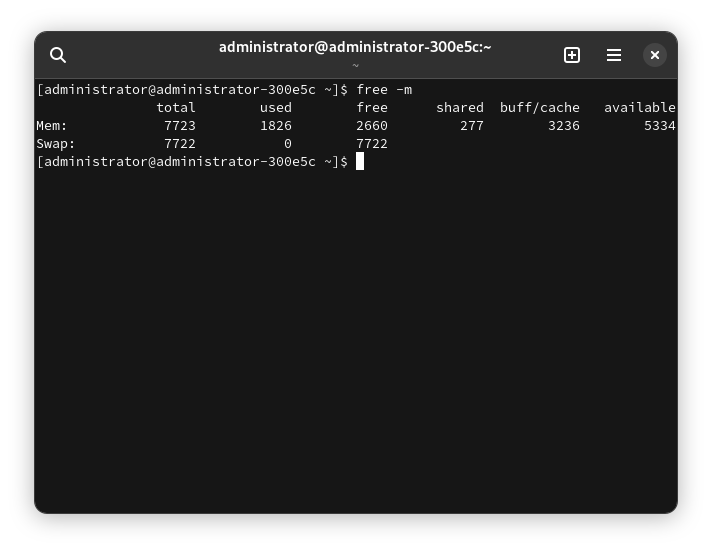
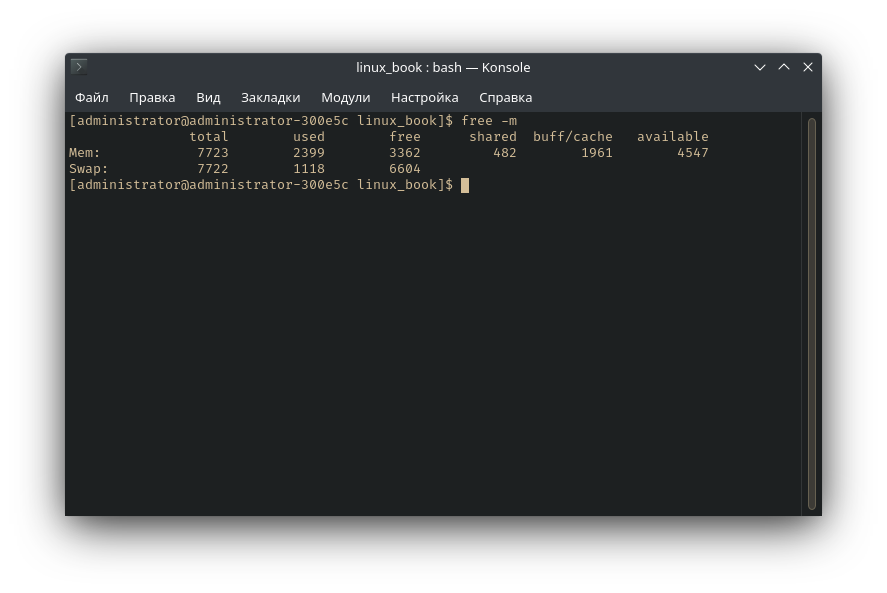
Мелкие правки, добавление новых статей

Changed region(s): [[0.0309, 0.0309, 0.9579, 0.9564]]

diff --git a/docs/ram.md b/docs/ram.md
@@ -1,0 +1,310 @@
+# Работа с RAM
+
+В данной части пойдёт речь о двух вопросах. Первый: "как ядро Linux работает с
+оперативной памятью?", второй: "о zram и подкачке".
+
+Одной из наиболее важных и базовых подсистем в любой ОС является подсистема
+работы с оперативной памятью (Memory Management Unit). Конструкция данной
+подсистемы является довольно сложной, да и само ядро Linux активно развивается и
+совершенствуется.
+
+Поговорим про виртуальную память. Если с физической памятью всё понятно (это,
+собственно, сама плашка оперативной памяти), то вот с виртуальной памятью могут
+возникать всяческие непонятки.
+
+В отличие от физической памяти, которую можно расширить только на аппаратном
+уровне, виртуальная память является совокупностью физической памяти и подкачки
+(swap).
+
+swap является механизмом управления памятью, при котором отдельные фрагменты
+памяти (как правило неактивные или малоактивные) могут быть перемещены из ОЗУ на
+диск (либо же, если использовать zram, то в виртуальный раздел оперативной
+памяти, но об этом позже). Поэтому можно утверждать, что размер виртуальной
+памяти можно неограниченно расширять с помощью дисков и прочих устройств
+хранения информации, но стоит учесть то, что доступ к фрагментам памяти,
+расположенных на диске, будет значительно медленнее, чем непосредственно к RAM.
+Хотите скорости - используйте zram. Так будет немного быстрее, чем использовать
+подкачку на HDD или SSD.
+
+Базовой единицей в организации памяти для ядра Linux является *страница памяти*.
+Страница имеет размер от 4 Кб, которому соответствует объём физического
+пространства в оперативной или виртуальной (область подкачки на диске или другом
+устройстве хранения) памяти. Также существуют страницы и другого размера: т.н.
+*Huge Pages* размером 2 Мб и страницы размером 1 Гб, но о них здесь не будет,
+так как в этом руководстве содержатся лишь базовые сведения.
+
+Процесс работает не с физической памятью напрямую, а с виртуальной. Виртуальная
+память - это адресное пространство процесса. Такая абстракция позволяет
+упростить разработку программного обеспечения, не думая о том, что можно
+обратиться не к тем адресам памяти или адресу другого процесса. Ну и это
+позволяет превышать размер основной оперативной памяти за счёт описанных выше
+механизмов.
+
+При запуске процессов, они запрашивают у системы (т. е. у ядра посредством
+соответствующих системных вызовов) память для своей работы, а в ответ на это
+ядро выделяет для них достаточное количество страниц памяти. Виртуальная память,
+или как её ещё называют, «резервное ЗУ» (резервное запоминающее устройство) для
+страниц памяти, которые содержат, к примеру, исходный текст исполняемого
+приложения, представляют собой обычные исполняемые файлы на диске. Ровно как и
+для других файлов данных, резервным ЗУ являются сами файлы. Информация о том как
+взаимосвязаны страницы физической и виртуальной памяти хранится в
+соответствующих таблицах страниц памяти.
+
+Для работы с памятью в Linux характерно такое явление, как "страничный обмен"
+(*paging*). Оно заключается в том, что ядро вызывает процессам столько памяти,
+сколько им необходимо. В том смысле, чтобы её (памяти) всегда хватало. Это
+достигается путём расширения физической памяти за счёт виртуальной, т.е.
+подкачки. Поскольку выполнение процессов должно происходить в реальной
+физической памяти, ядро постоянно перемещает страницы памяти процессов между
+физической и виртуальной памятью. Забегая вперёд, следует отметить, что в
+виртуальной памяти хранятся *"неактивные"* страницы, которые не задействованы
+процессом в данный момент, но необходимые ему для полноценной работы
+впоследствии.
+
+Резюмирое всё вышеописанное, ядро старается управлять памятью таким
+образом, чтобы недавно используемые процессом страницы находились в физической
+памяти, а неактивные или редко используемые страницы перемещались в подкачку.
+Такой механизм распределения памяти называется *LRU* (*Least Recently Used*).
+
+Вторым важнейшим аспектом в работе памяти является использование кеш-буфера
+страниц. Это вытекает из работы алгоритма LRU, который довольно сложен в своей
+реализации. Поскольку следить за всеми обращениями к страницам - это, в
+некоторых случаях, довольно ощутимые потери в производительности системы,
+использование страничного кеш-буфера куда проще в своей реализации при тех же
+самых результатах, к тому же, данный подход имеет огромный модернизационный
+потенциал (в отличие от LRU) и алгоритмы анализа содержимого кеш-буфера
+(для определения страниц, которые должны быть перемещены из
+виртуальной памяти) постоянно совершенствуются, что заметно сказывается на
+производительности и эффективности управления памятью.
+
+Когда процессу не хватает памяти, то ядро начинает искать "занятые" страницы,
+которые можно использовать для "голодающего" процесса. Обычно такими страницами
+являются те, что давно не были использованы. Ядро проверяет их на предмет
+модификации каким-то процессом и если изменения были, то такие страницы
+помечаются ядром как "грязные". Для повторного использования памяти такие
+страницы сначала обязательно переносятся в виртуальную память. Все же остальные
+страницы являются "чистыми". И поэтому ядро их использует для предоставления
+другим или "голодающим" процессам.
+
+Когда происходит обращение к страницам памяти, которые некоторое или долгое
+время не использовались, т.е. к "неактиыным" страницам, ядро выполняет с ними
+несколько важных задач:
+
+- Возвращает ссылки на эти страницы в соответствующей таблице страниц;
+- Сбрасывает в нулевое значение время неиспользования этих страниц;
+- Помечает эти страницы как активные.
+
+Со страницами, находящимися в виртуальной памяти не всё так однозначно. Дело в
+том, что для того, чтобы активизировать такие страницы, они должны быть
+предварительно прочитаны с диска. Системное ядро комплектуется
+специализированными модулями, которые содержат алгоритмы, с помощью которых
+система довольно эффективно "предсказывает", сколько может потребоваться памяти
+при разной степени активности и загруженности процессов. Эти алгоритмы имеют
+своей целью обеспечение процессов свободной памятью с максимальной
+эффективностью. Т. е. так, чтобы процессам как можно реже приходилось
+простаивать в ожидании выгрузки очередной страницы в свободную память. Таким
+образом, наблюдая за состоянием страничного обмена во время рабочей нагрузки
+системы, можно делать выводы о том, нужна ли ей дополнительная память. Если
+страничный обмен интенсивный — то однозначно следует установить дополнительные
+модули ОЗУ.
+
+Если же происходит так, что процессам не хватает ни реальной физической, ни
+виртуальной памяти. Т. е. когда память полностью исчерпана, то система начинает
+завершать (а точнее уничтожать) целые процессы. Либо запрещает создание новых.
+Конечно в этом случае в первую очередь уничтожаются наиболее «безболезненные»
+для системы процессы. Однако в таких случаях даже «на глаз» и по собственным
+ощущениям видно что она большую часть времени тратит на управление памятью, а не
+на выполнение рабочих задач.
+
+В Linux можно настроить параметр, задающий то, насколько быстро ядро должно
+«отбирать» страницы памяти у процессов, которым они менее нужны для процессов,
+которым они на данный момент необходимы. Этот параметр содержится в файле
+`/proc/sys/vm/swappiness` и по-умолчанию равен 60. В некоторых дистрибутивах
+может
+быть другим. Если задать его меньшим значением (например 0), то ядро будет
+забирать страницы процесса в самую последнюю очередь, используя вместо этого
+любые другие варианты. Если это значение в пределах между 60 и 100, то страницы
+будут отбираться у процессов с более высокой вероятностью. О настройке
+`vm.swappiness` читать в конце статьи.
+
+В отличие от физической памяти, которую можно расширить только на аппаратном
+уровне, виртуальная память является совокупностью физической памяти и swap.
+
+Говоря простыми словами, чем больше значение `vm.swappiness`, тем чаще будет
+использоваться подкачка.
+
+## Практические сведения
+
+```bash
+cat /proc/meminfo
+```
+
+![](pic/meminfo.png)
+
+**Объяснение пунктов:**
+
+- `MemTotal` - доступный объём оперативной памяти;
+- `MemFree` - объём неиспользуемой оперативной памяти;
+- `Buffers` - область памяти, в которой хранятся данные, ожидающие записи на
+  диск; буфер позволяет процессам продолжать работу, не дожидаясь физической
+  записи на диск;
+- `Cached` - отображает объём памяти, занятый под кеш (файлы, каталоги, файлы
+  блочных устройств, etc.);
+- `SwapCached` - объём памяти, помещённый в подкачку, а затем перенесённый в RAM
+  обратно, но при этом данные всё ещё присутствуют в подкачке;
+- `Active` - объём памяти, который наиболее часто используется страницами
+  памяти, данные страницы памяти освобождаются довольно редко;
+- `Inactive` - соответственно, не используются в данный момент, страницы
+  являются первоочерёдными кандидатами для выгрузки в подкачку в случае
+  необходимости;
+- `Unevictable` - страницы памяти, которые по каким-то причинам не могут быть
+  помещены в подкачку.
+- `Mlocked` - память, внесённая в адресное пространство системным вызовом
+  `mlock()`;
+- `SwapTotal` и `SwapFree` - общий и свободный объём подкачки;
+- `Dirty` - изменённые страницы памяти, которые всё ещё находятся в RAM, но ещё
+  не сброшены на диск;
+- `Writeback` - память, которая в данный момент сбрасывается на диск;
+- `AnonPages` - объём анонимной памяти;
+- `Mapped` - объём памяти, внесённый в адресное пространство с помощью `mmap()`;
+- `Slab` - объём памяти, выделенный под структуры ядра небольшого объёма;
+- `PageTables` — память выделенная под страничную таблицу;
+- `NFS_Unstable` указывает на объем памяти используемый для передачи данных по
+  NFS v3+;
+- `Bounce` — память используемая блочным устройством;
+- `CommitLimit` — общий объем памяти, основанный на коэффициенте избыточного
+  выделения (`vm.overcommit_ratio`), доступный в настоящее время для выделения в
+  системе. Это ограничение соблюдается только в том случае, если включен строгий
+  учет переопределения (режим 2 в `vm.overcommit_memory`);
+- `Committed_AS` — объем памяти, выделенный в настоящее время в системе.
+  Выделенная память - это сумма всей памяти, которая была выделена процессами,
+  даже если она еще не была использована ими;
+- `VmallocTotal` — виртуальное пространство, доступное для `vmalloc`;
+- `VmallocUsed` — объем использованного пространства `vmalloc`;
+- `VmallocChunk` — наибольший свободный блок внутри `vmalloc`;
+- `HugePages_Total` — количество huge страниц, выделенных ядром;
+- `HugePages_Free` — количество huge страниц, которые не выделяются;
+- `HugePages_Rsvd` — количество huge страниц, которые должны были выделиться из
+  пула, но еще этого не сделали
+- `Hugepagesize` — количество huge страниц;
+- `DirectMap1G` — память, выделенная под huge страницы размером 1GB.
+
+Можем посмотреть на вывод программы `free`:
+
+![](pic/free.png)
+
+```bash
+free -m
+```
+
+В строке `buffers/cache` показывается, сколько памяти используется и сколько
+свободно с точки зрения её использования в приложениях.
+
+## О подкачке
+
+В предыдущем разделе шла речь про подкачку. В данном разделе про подкачку
+приведены сведения о её создании. Практика в подобных руководствах - это хорошо
+:).
+
+Чтобы узнать, существует ли уже подкачка или нет, выполните:
+
+```bash
+swapon -s
+```
+
+![](pic/swapon.png)
+
+## Рассчёт размера подкачки
+
+Разные разработчики советуют разные методы рассчёта. Кто-то советует создавать
+подкачку размером в половину ОЗУ. Кто-то советует создавать подкачку равную
+объёму ОЗУ или превышающую объём ОЗУ в два раза. Но я всегда создаю подкачку по
+первому совету, который говорит нам создавать её с объёмом в половину ОЗУ. Мне
+достаточно :). В любом случае я советую создавать подкачку ровно того объёма,
+которого будет достаточно пользователю для выполнения определённого круга задач.
+
+### Создание файла подкачки
+
+Чтобы создать файл подкачки:
+
+```bash
+sudo fallocate -l 1G /swapfile &&
+sudo chmod 600       /swapfile &&
+sudo mkswap          /swapfile &&
+sudo swapon          /swapfile
+```
+
+**Объяснение новых команд:**
+
+- `sudo fallocate -l 1G /swapfile` - создать файл `/swapfile`, размером 1 Гб. Чтобы выбрать другой размер, заменить "1G" на нужное значение.
+- `sudo chmod 600 /swapfile` - в целях безопасности, выставить нужные права на файл. О правах на файлы читать в интернете.
+- `sudo mkswap /swapfile` - создать файловую систему `swap`.
+- `sudo swapon /swapfile` - включение подкачки.
+
+### Настройка vm.swappiness
+
+Теперь настройка свопа. Есть параметр, сообщающий ядру, как часто использовать
+подкачку. Параметр имеет значения от 0 до 100, чем выше значение, тем чаще будет
+использоваться swap.
+
+Для того, чтобы проверить, какой параметр используется, выполнить:
+
+```bash
+cat /proc/sys/vm/swappiness
+```
+
+Например, в Fedora 36 значение равно шестидесяти. Если хотите изменить это значение, выполните:
+
+```bash
+sudo sysctl vm.swappiness=X
+```
+
+Где X - нужное значение.
+
+
+### Сохранение изменений после перезагрузки
+
+Как только система перезагрузится, придётся опять включать подкачку и выставлять
+vm.swappiness, что, конечно, неудобно. Чтобы этого избежать, нужно сделать
+соответствующую запись в `/etc/fstab`:
+
+```bash
+echo '/swapfile none swap sw 0 0' |sudo tee -a /etc/fstab
+```
+
+И записать в `/etc/sysctl.conf` нужное значение swappiness:
+
+```bash
+echo 'vm.swappiness=X' |sudo tee -a /etc/sysctl.conf
+```
+
+### Удаление файла подкачки
+
+После сборки и настройки системы, вероятно, swap вам больше не понадобится.
+Поэтому лучше его удалить.
+
+Выполнить:
+
+```bash
+sudo swapoff /swapfile
+sudo rm /swapfile
+```
+
+И удалить записи в `/etc/fstab` и `/etc/sysctl.conf`.
+
+### Объяснение новых команд
+- `sudo swapoff...` - отключить подкачку
+- `sudo rm /swapfile` - удалить подкачку
+
+## Важно
+Когда полностью отключить подкачку, то ОС будет использовать только ОЗУ и в случае его нехватки система может просто зависнуть.
+
+**Ну и пару нужных вещей:**
+
+- Подкачка нужна для ровного и эффективного высвобождения оперативной памяти и
+  использовать swap в качестве "экстренной памяти" не рекомендуется в принципе.
+- Отключение `swap` не спасает от проблемы дискового ввода/вывода при
+  конкуренции за память - дисковый `I/O` перемещается с анонимных страниц на
+  файловые, что не только может быть менее эффективным, поскольку остаётся
+  меньший пул страниц, доступных для высвобождения, но и само по себе может
+  способствовать появлению этой высокой конкуренции.

diff --git a/docs/distros.md b/docs/distros.md
@@ -1,5 +1,7 @@
 # Краткий обзор дистрибутивов GNU/Linux
 
+![](pic/system.png)
+
 Существует очень большое число дистрибутивов этой операционной системы, имеющие
 своё предназначение. Какие-то предназначены для работы на устаревшем
 оборудовании, другие применяются на серверах, а какие-то оптимизированы для
